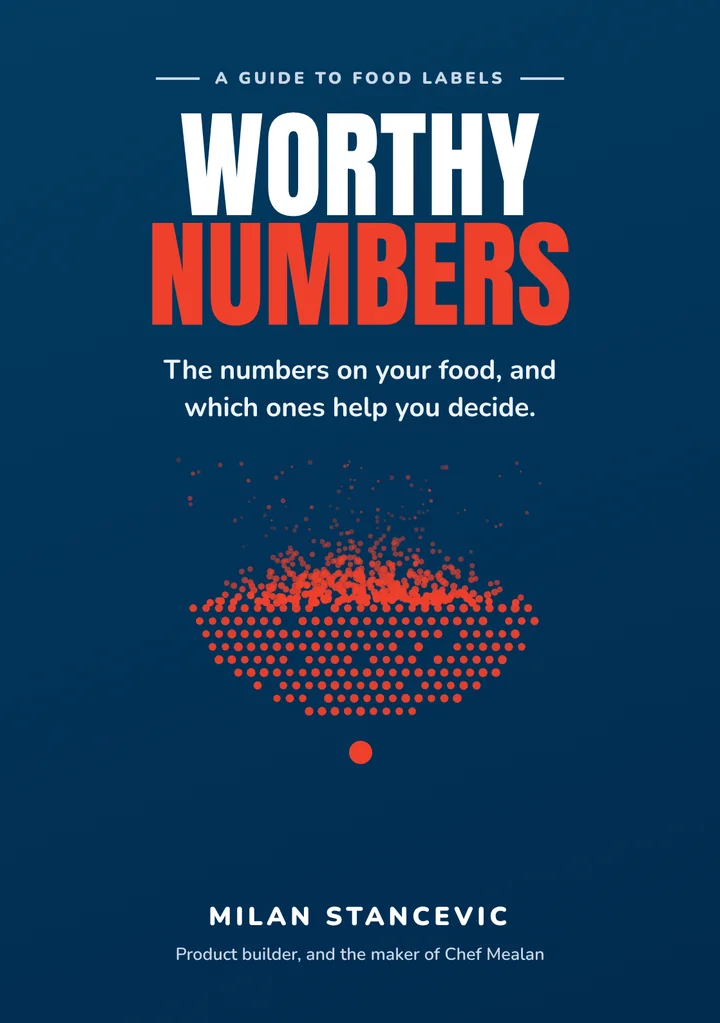
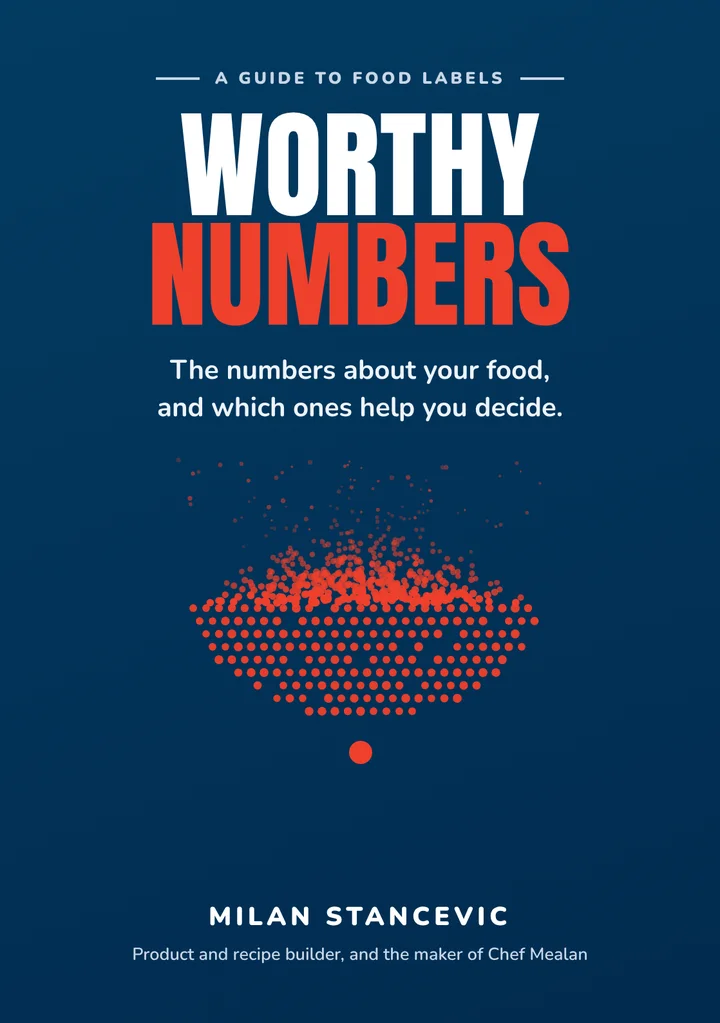
BP70: the book page follows the book: one example person at PD 6.4, skyr instead of milk, new cover
Claude-Session: https://claude.ai/code/session_01GUgTWCvvCc31HiDMKgsmgL

Changed region(s): [[0.2139, 0.3333, 0.7944, 0.4242], [0.1833, 0.9091, 0.825, 0.9394]]

diff --git a/src/screens/BookScreen.tsx b/src/screens/BookScreen.tsx
@@ -54,11 +54,11 @@ export function BookScreen({ slug, signedIn }: { slug: string; signedIn: boolean
       )}
 
       <h2>Live the day, so it counts</h2>
-      <p className="bt-sub">PD helps you decide at the plate. What counts is the whole day: calories in and out, protein, carbohydrate and fat, vitamins and minerals, an active day, strength training, sleep and recovery. Chef Mealan supports you on that journey.</p>
+      <p className="bt-sub">PD helps you decide at the plate or on the go. What counts is the whole day: calories in and out, protein, carbohydrate and fat, vitamins and minerals, an active day, strength training, sleep and recovery. Chef Mealan supports you on that journey.</p>
       <div className="bk-target">
-        <small>Your own target, worked out</small>
-        <span>Example: wants to lose fat and build muscle · 66 kg, 168 cm · three strength sessions a week</span>
-        <div><b>1,700 kcal and 125 g protein a day</b><b className="bk-pd">PD 7.4</b></div>
+        <small>Your own target, calculated</small>
+        <span>Example: wants to keep his weight · 80 kg, 182 cm · two strength sessions a week</span>
+        <div><b>2,350 kcal and 150 g protein a day</b><b className="bk-pd">PD 6.4</b></div>
       </div>
       {signedIn ? (
         <a className="pill pill-primary bk-read" href="/">Open Chef Mealan</a>

diff --git a/src/bookPages.ts b/src/bookPages.ts
@@ -18,7 +18,7 @@ export const BOOKS: Record<string, BookPage> = {
   "worthy-numbers": {
     name: "Worthy Numbers",
     kicker: "A guide to food labels",
-    subtitle: "The numbers on your food, and which ones help you decide.",
+    subtitle: "The numbers about your food, and which ones help you decide.",
     intro: "Short pages on the numbers you see on food every day: what each one tells you, what it can't, and how to use it at your next meal.",
     cover: "/books/worthy-numbers-cover.webp",
     share: "/books/worthy-numbers-og.jpg",
@@ -37,7 +37,7 @@ export const BOOKS: Record<string, BookPage> = {
         "Granola: 9\u00a0g of protein in 450\u00a0kcal is PD 2. Skyr: 11\u00a0g in 63\u00a0kcal is about PD 17. The higher the PD, the more protein you get for the same calories.",
       ],
       from: { label: "60\u00a0g of granola with 200\u00a0ml of milk 1.5%", pd: "PD 3.4", sub: "364\u00a0kcal, 12\u00a0g protein" },
-      to: { label: "With 150\u00a0g of skyr on top", pd: "PD 6.3", sub: "459\u00a0kcal, 29\u00a0g protein" },
+      to: { label: "With 170\u00a0g of skyr instead of the milk", pd: "PD 6.4", sub: "377\u00a0kcal, 24\u00a0g protein" },
       after: "The book shows how PD works next to the label, the protein claims and Nutri-Score, and how to set your own target.",
       tryIt: "Try PD on your own craving",
     },
